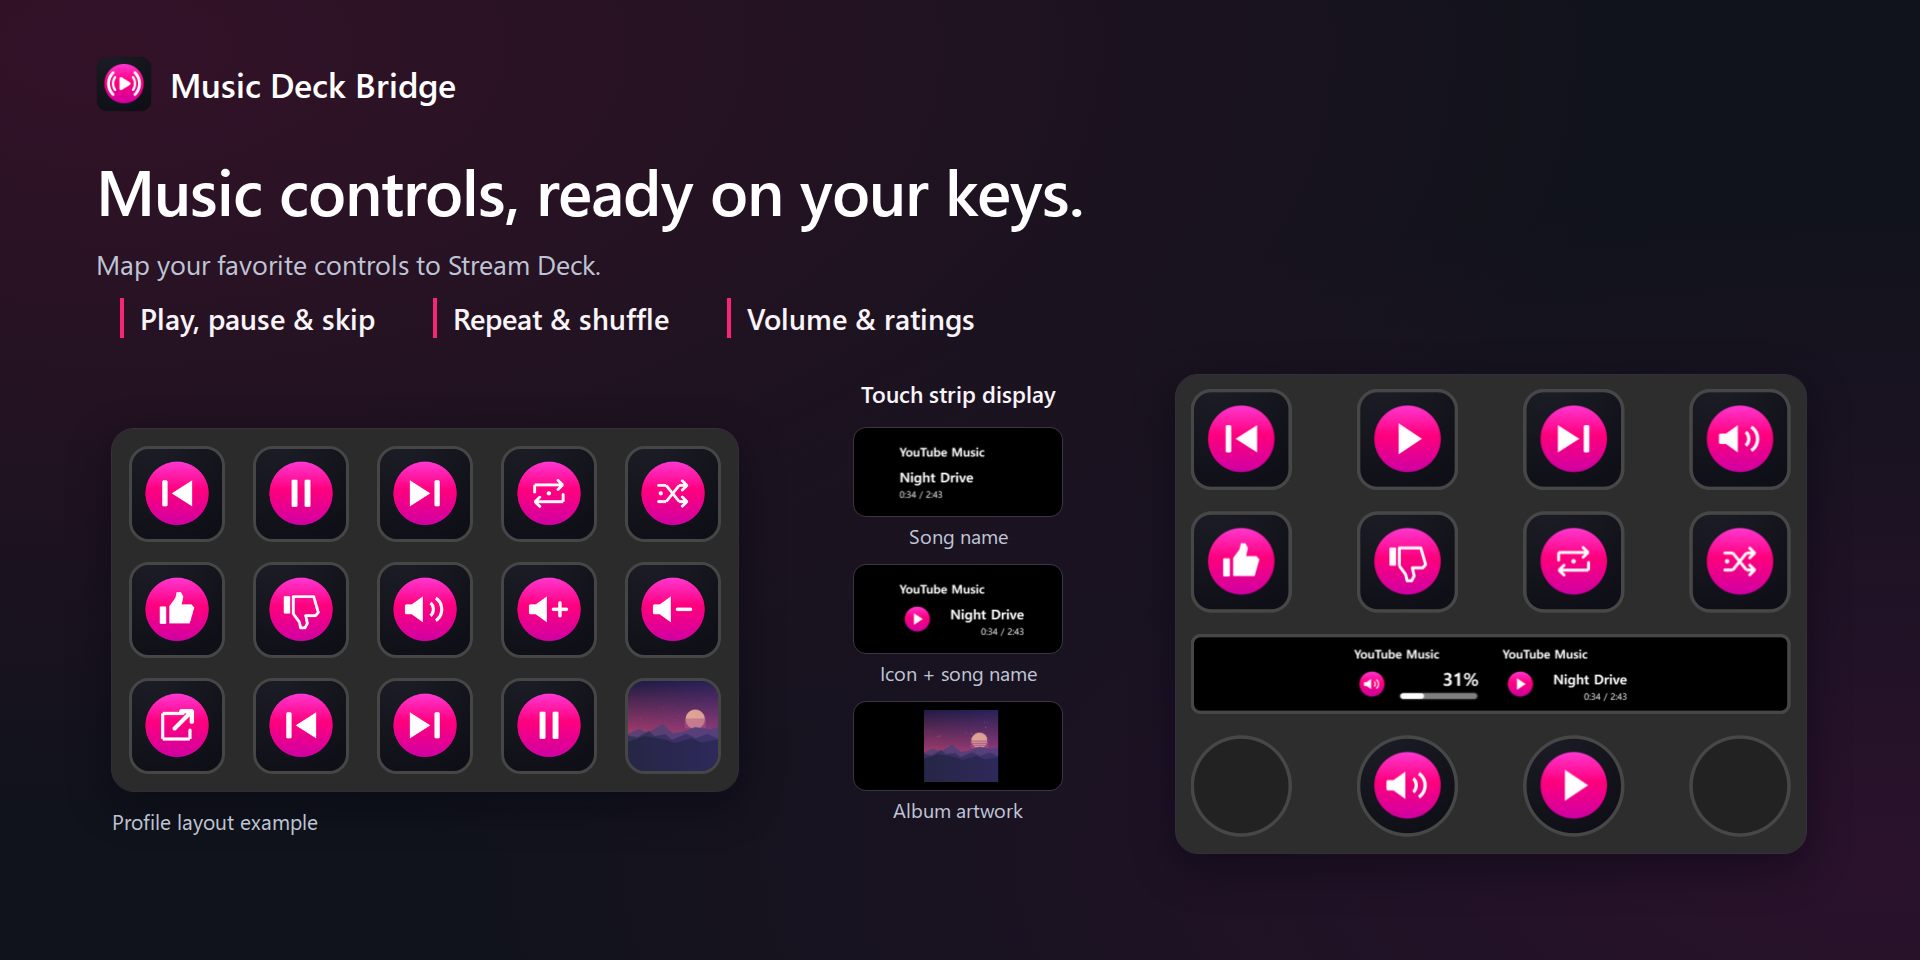
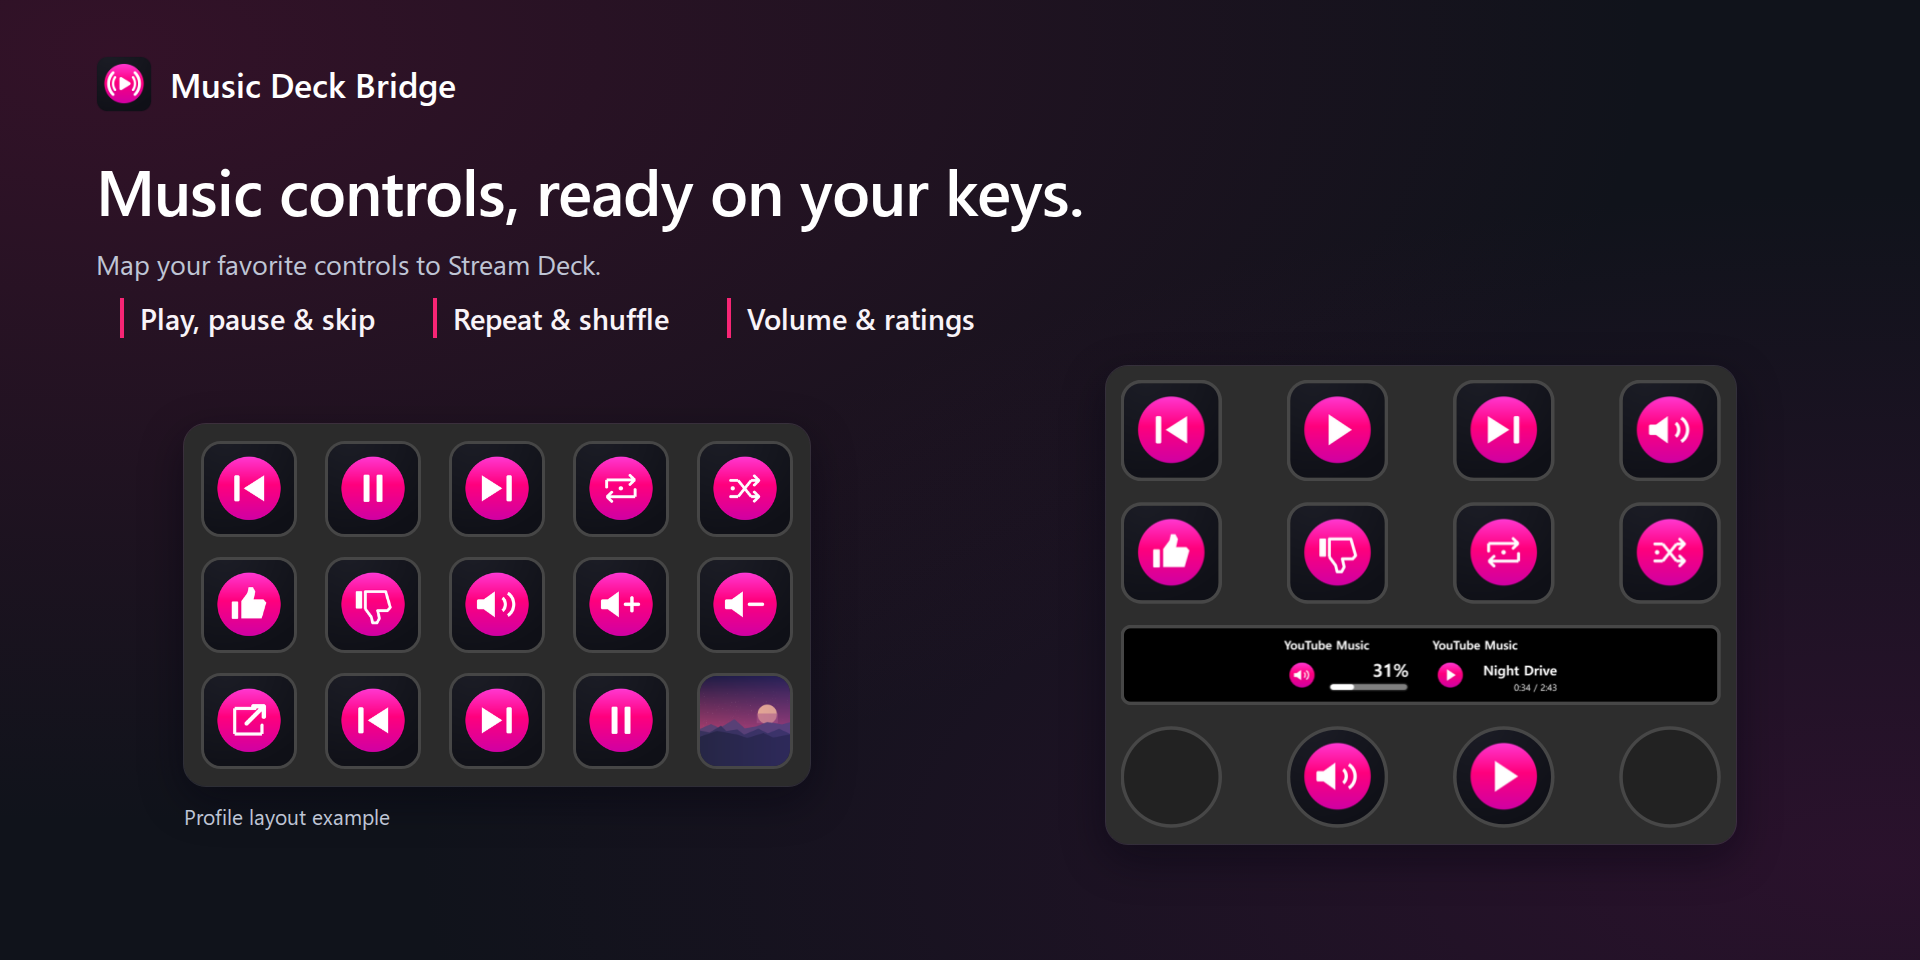
docs: restore the side-by-side controls gallery layout

Changed region(s): [[0.0625, 0.375, 0.9688, 0.9062]]

diff --git a/docs/verification/media.md b/docs/verification/media.md
@@ -45,9 +45,11 @@ The overview and controls slides use the [edited Stream Deck + profile capture](
 
 The before-and-after Windows app captures confirmed that the Current Track feedback lost the dark rectangle around the icon. The prior installed plugin was restored after the check. SDK tests and the Chromium preview checked the volume and mute feedback. The Windows capture establishes app preview output for Current Track. Physical touch-strip output was outside the verification scope.
 
-For the three-mode revision, temporary sample bundles supplied the same song and cover to Song name, Icon + song name and Album artwork in the native Windows app. The controls slide uses unscaled crops of the three displays. Both text formats showed the YouTube Music heading and playback time. SDK and Chromium inspector fixtures separately exercised settings changes and persistence. The Windows installation returned to the original bundle and its saved-track file matched the pre-test checksum.
+For the three-mode revision, temporary sample bundles supplied the same song and cover to Song name, Icon + song name and Album artwork in the native Windows app. The controls slide in `7b2c63b` used unscaled crops of the three displays. Both text formats showed the YouTube Music heading and playback time. SDK and Chromium inspector fixtures separately exercised settings changes and persistence. The Windows installation returned to the original bundle and its saved-track file matched the pre-test checksum.
 
 The original gallery sample profile had `ShowTitle: false` on the Volume Dial, which omitted the heading in the previous gallery. The revised Windows capture shows both dial titles with the same rendered dimensions and baseline. The colored portions of the volume and playback icons also measured the same size. The new crops for the two text modes preserve the native capture pixels. The installed bundle and layouts were restored after the capture, and the saved-track checksum matched. [Elgato built-in layout reference](https://docs.elgato.com/streamdeck/sdk/guides/dials/#built-in-layouts)
+
+The current controls slide restores the side-by-side profile composition from `1107971`. Pixel comparisons confirmed that this composition differs only where the updated touch-strip pixels were inserted.
 
 The two playback popup panels were captured from the bundle's English UI with sample playback in paired and standalone modes. The connection slide captures the bundled property inspector and popup settings using sample PIN `123456` and default port `17864`. Each settings panel has a 24-pixel margin on all four sides. Pixel checks confirmed that the content pixels match the captures and layout checks verified that the PIN and port controls fit in the crop. The YouTube Music panel uses cropped Chrome and YouTube Music UI from a designated Windows playback window with the same original cover and sample title composited into it. Account controls, bookmarks and the original album cover were kept outside the export. The five English RGB PNGs were checked at 1920 × 960 and visually reviewed against the published design.
 

diff --git a/store-assets/drafts/v1.3.0/README.md b/store-assets/drafts/v1.3.0/README.md
@@ -20,7 +20,7 @@ Chrome 이미지 두 장은 `394b941`과 동일한 제품 소스의 임시 1.3.0
 Elgato 갤러리 초안은 모두 영어 1920 × 960 PNG입니다. 공개 갤러리의 배경과 제목 스타일을 따릅니다. Stream Deck +는 앱 프로필 캡처에 투명 터치 스트립 아이콘을 반영했고, MK.2와 XL은 각 기기의 키 배열에 맞춘 프로필 예시입니다. 제품 아이콘은 [기존 288 × 288 PNG](../../elgato/listing/app-icon-288.png)를 사용합니다. [Elgato 갤러리 기준](https://docs.elgato.com/guidelines/products/#gallery) · [이미지 출처 및 검증](../../../docs/verification/media.md#november-28-revised-130-elgato-gallery)
 
 1. [제품 소개](elgato-gallery-01-overview-1920x960.png) — Stream Deck 플러그인과 Chrome 확장 프로그램을 `+`로 묶고 `→`로 YouTube Music과 연결합니다. 볼륨 다이얼과 현재 곡 다이얼에 같은 스타일로 **YouTube Music**을 표시합니다.
-2. [Stream Deck 키 기능](elgato-gallery-02-controls-1920x960.png) — MK.2와 Stream Deck +의 재생, 반복·셔플, 볼륨·평가 매핑과 현재 곡 다이얼의 세 가지 화면을 보여줍니다.
+2. [Stream Deck 키 기능](elgato-gallery-02-controls-1920x960.png) — MK.2와 Stream Deck +의 프로필을 나란히 배치해 재생, 반복·셔플, 볼륨·평가 매핑과 두 다이얼의 터치 스트립을 보여줍니다.
 3. [연결 방법](elgato-gallery-03-connection-1920x960.png) — Stream Deck과 Chrome 확장의 설정 화면에 여백을 두어 예시 PIN, 로컬 서버 포트와 버튼이 모두 보이도록 했습니다. 마지막에 YouTube Music 브라우저를 보여줍니다.
 4. [Chrome 단독 제어](elgato-gallery-04-chrome-1920x960.png) — 확장 팝업과 YouTube Music 브라우저를 함께 보여줍니다.
 5. [연결 앨범 이미지](elgato-gallery-05-linked-artwork-1920x960.png) — MK.2와 XL에서 선택한 키에 앨범 이미지를 연결하고, 다른 키에는 재생·볼륨 등의 동작 아이콘을 표시하거나 비워 둡니다.
